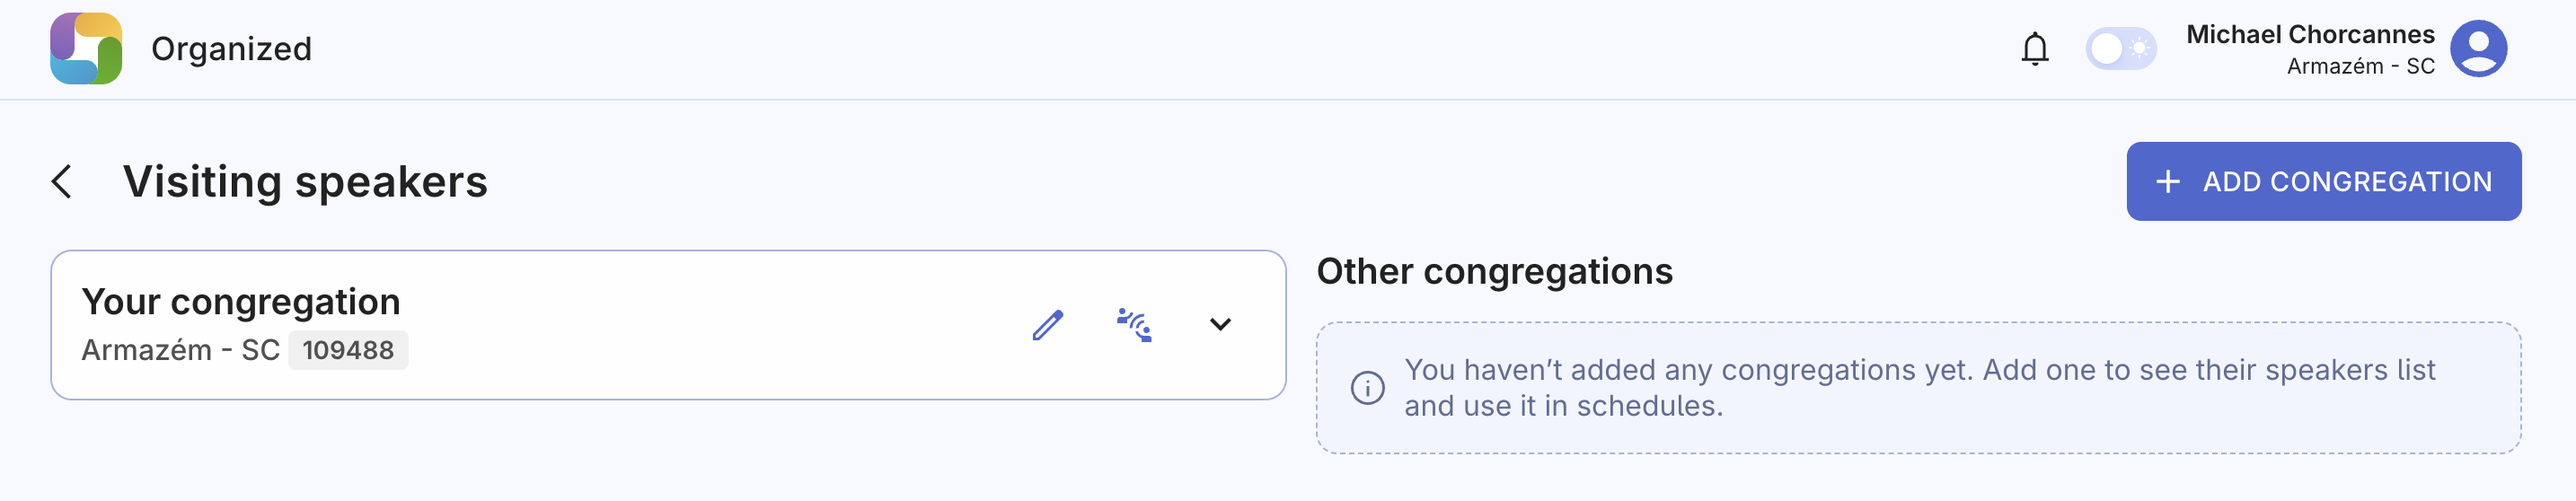
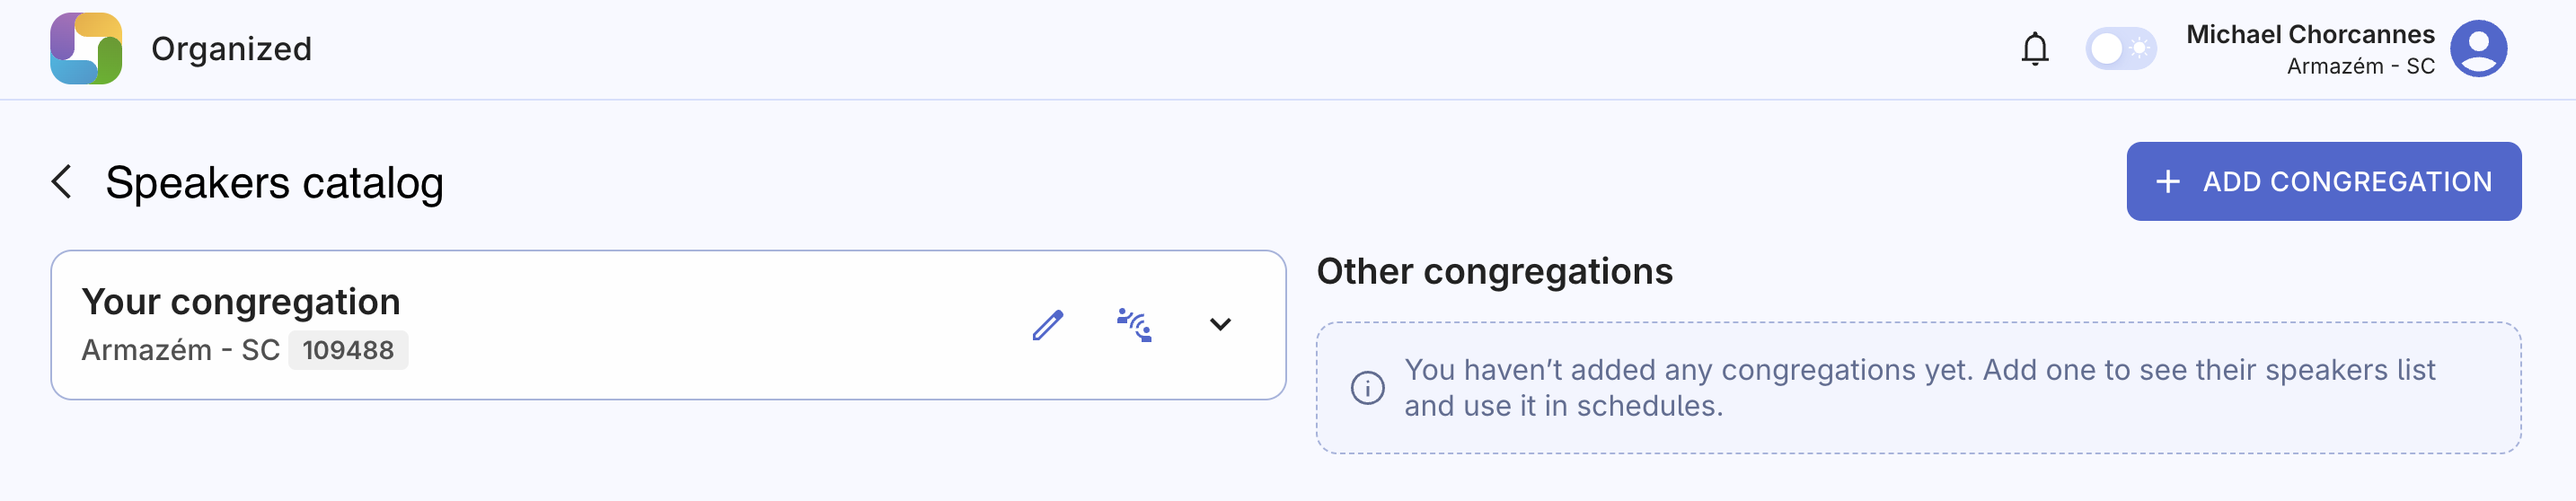
Weekend meetings scheduling (#362)

Changed region(s): [[0.031, 0.3351, 0.1862, 0.3961]]

diff --git a/organized/docusaurus.config.ts b/organized/docusaurus.config.ts
@@ -3,7 +3,7 @@ import type { Config } from '@docusaurus/types';
 import type * as Preset from '@docusaurus/preset-classic';
 
 const config: Config = {
-  title: 'Organized | How to use guide',
+  title: 'Organized | User guide',
   favicon: 'img/favicon.ico',
 
   // Set the production url of your site here
@@ -58,9 +58,9 @@ const config: Config = {
     // Replace with your project's social card
     image: 'img/organized-og-image.jpg',
     navbar: {
-      title: 'Organized | How to use guide',
+      title: 'Organized | User guide',
       logo: {
-        alt: 'Organized How to use guide',
+        alt: 'Organized User guide',
         src: 'img/logo.svg',
       },
       items: [

diff --git a/organized/docs/how-to-use/meetings/weekend-meeting.md b/organized/docs/how-to-use/meetings/weekend-meeting.md
@@ -3,3 +3,85 @@ sidebar_position: 4
 ---
 
 # Weekend meeting scheduling
+
+Creating weekend meeting schedules in the Organized app is as simple as a few clicks! Whether you're scheduling only public talks, or whole weekend meetings, this guide will help you do it efficiently and accurately. Let's see what features Organized provides! 
+
+## Page structure
+
+The weekend meeting scheduling page is designed with simplicity in mind, while also offering powerful features to make scheduling easier. Here’s how the page is structured:
+
+- **Meeting weeks** selector. This section lets you quickly navigate between months and weeks, allowing you to easily view the scheduling progress for each particular week. Also, there’s a **Delete multiple assignments** button that lets you clear several assignments at once. 
+- **Scheduling** area. On another content card, you'll see the  area with all the fields that are ready for scheduling.
+- **Quick settings**. You’ll find these at the top of the page for easy access. These settings are shortcuts to options from the [Congregation settings](../congregation/congregation-settings) page but only affect the weekend meeting scheduling. Remember, changes here will impact the whole congregation, so use these shortcuts to adjust settings related specifically to weekend meetings.
+
+![Quick settings buttons](./img/wm-quick-settings.png)
+*Quick settings button*
+
+## Meeting scheduling
+
+### Prepare: Import meeting mterials from the meeting workbook
+
+On the home page dashboard, click the '[Import from jw.org](../meeting-materials/import-jw-org)' button *(or alternatively use the [import from .epub file](../meeting-materials/import-epub) button to upload an .epub file from your device)* to automatically import the entire meeting program from the meeting workbook. This includes weekly Bible reading text, songs, meeting part titles, durations, source materials, and everything else you need to start scheduling. Thanks to this automatic import, you won't need to manually calculate durations or perform repetitive copy-paste actions to get all the program part titles right.
+
+:::tip[Import from jw.org]
+Although the import from jw.org is performed automatically every few weeks to ensure you always have the newest meeting materials ready for scheduling, **this automatic import doesn't happen instantly after each small update on jw.org**. If you want to be 100% sure you have the latest version of the schedule, click the 'Import from jw.org' action button on the home page dashboard each time before creating a new schedule. This takes only a few extra seconds but removes any uncertainty.
+:::
+
+### Autofill feature
+
+We highly recommend using the Autofill feature to achieve the most balanced scheduling and save your time. The intelligent algorithm considers previous assignments and each person's qualifications, as well as availability, making the scheduling process faster and more efficient. Autofill is easy to use and highly reliable—give it a try and see for yourself!
+
+### Manual scheduling
+
+If you prefer to schedule manually, Organized still provides valuable tools such as assignment history, suggestions, and conflicting assignment warnings. Here’s how to do it:
+
+1. **Select a week type:** Choose the appropriate week type from the list, such as a normal week or a special event.
+2. **Start scheduling:** Begin by scheduling the opening song, chairman, and prayer (if needed). The following instructions will explain some more details and useful tips.
+
+### Public talk
+
+When scheduling the public talk, you have three options to start with:
+
+![Select speaker type or JW Stream video recording](./img/speaker-type.png)
+
+- **Local speaker:** Select a speaker from your own congregation.
+- **Visiting speaker:** Choose a speaker from another congregation. This can be done using the shared catalog of speakers or by manually entering the details.
+- **JW Stream recording:** Select this option if you plan to use a recorded talk video.
+
+Use the [Speakers catalog](../persons/visiting-speakers) button inside the public talk field to access a list of all available speakers and talks. This feature makes it easy to select and schedule speakers with just one click. If you take care of this in advance, you can also get a list of songs that the speaker has chosen for the public talk. 
+
+![Local and visiting speakers list in the Organized app](./img/wm-speakers-catalog-button.png)
+
+:::warning
+Always arrange visiting speakers directly with their public talk coordinator before adding them to the schedule. Even if you have access to the shared visiting speakers list, direct prior communication is required to  confirm dates, titles, and speakers.
+:::
+
+### Watchtower study
+
+After scheduling the public talk, fill out the remaining meeting parts:
+
+- **Watchtower study:** The main conductor is automatically pre-filled unless unavailable. If you need to assign another conductor, select one from the dropdown menu. Only brothers with the Watchtower study conductor qualification will appear in the list. [Edit person](./persons#edit) to update qualifications if needed.
+- **Reader and concluding prayer:** Assign the Watchtower study reader and, if the speaker is unavailable, assign another brother to give the concluding prayer.
+
+### Outgoing talk
+
+You can also include outgoing talks in the schedule — these are talks given by your congregation's speakers at other congregations. To do this, click the 'Add outgoing talk' button under the main meeting scheduling card and enter the details, such as the title, songs, speaker's name, and host congregation. Scheduling these talks in the Organized app helps keep everything in one place, making sure speakers are well-prepared. It also helps with communication between congregations since outgoing talks are synced if they're both using Organized, ensuring speakers know about their assignments ahead of time.
+
+![Congregation and speaker details for outgoing public talks of Jehovah's Witnesses](./img/wm-outgoing-talk-details.png)
+
+### Clearing assignments
+
+- **Delete outgoing talk:**C lick the delete bin icon in the top right corner of the outgoing talk card. Confirm the deletion, and the talk will be removed from the schedule.
+- **Clear all assignments:** Use the **Clear all** button to remove all assignments for the entire week at once, saving time compared to manual deletion.
+
+## Publishing and exporting
+
+Once you’ve finished scheduling, it’s crucial to **publish** the schedules so everyone in your congregation can see their assignments. If you don't publish, the new schedules will remain invisible to others in the app. Remember, creating schedules is just the first step—you also need to publish them as soon as you're done.
+
+Click the 'Publish' button and choose the month you want to make available. Published months will have an indicator icon, so you can easily see which months still need to be published based on your recent work. Make sure not to publish incomplete schedules. After publishing, the new schedule will be visible to everyone in the congregation within a few minutes.
+
+After publishing, you can also **export** the schedules as PDF files for printing or sharing. Click the 'Export' button, select the date range you want to export, and confirm the export. The PDF file will be downloaded to your device within seconds. The export feature even works offline, no internet connection is required! 👍
+
+## Great work: Your scheduling is complete!
+
+By following these steps, you’ve ensured that your weekend meetings are well-organized, with all participants informed and prepared. As you become more familiar with the Organized app, you'll find that scheduling becomes faster and more intuitive, making your planning process not just efficient, but almost effortless!

diff --git a/organized/docs/how-to-use/meetings/midweek-meeting.md b/organized/docs/how-to-use/meetings/midweek-meeting.md
@@ -22,11 +22,11 @@ Now that the structure is clear, let's move on to the scheduling steps!
 
 ## Step 1: Prepare
 
-### Check Person Assignment Qualifications
+### Check person assignment qualifications
 
 Before starting your first scheduling session, ensure that all congregation members have the correct set of [assignment qualifications on their Person page](../persons/add-person#assignments). This page allows you to flexibly specify available assignments for each meeting part for every individual in the congregation. Double-check that everyone in your persons list has the right assignments set up. This way only the qualified persons will be suggested and selected for specific meeting parts with specific roles (e.g. Student or Assistant, Bible study conductor or Reader, etc.).
 
-### Import Meeting Materials from the Workbook
+### Import meeting materials from the workbook
 
 On the home page dashboard, click the '[Import from jw.org](../meeting-materials/import-jw-org)' button *(or alternatively use the [import from .epub file](../meeting-materials/import-epub) button to upload an .epub file from your device)* to automatically import the entire meeting program from the meeting workbook. This includes weekly Bible reading text, songs, meeting part titles, durations, source materials, and everything else you need to start scheduling. Thanks to this automatic import, you won't need to manually calculate durations or perform repetitive copy-paste actions to get all the program part titles right.
 
@@ -34,18 +34,18 @@ On the home page dashboard, click the '[Import from jw.org](../meeting-materials
 Although the import from jw.org is performed automatically every few weeks to ensure you always have the newest meeting materials ready for scheduling, **this automatic import doesn't happen instantly after each small update on jw.org**. If you want to be 100% sure you have the latest version of the schedule, click the 'Import from jw.org' action button on the home page dashboard each time before creating a new schedule. This takes only a few extra seconds but removes any uncertainty.
 :::
 
-## Step 2: Start Scheduling
+## Step 2: Start scheduling
 
 Now that you have all the meeting materials from the workbook imported and ready for scheduling, let's proceed with choosing a specific week, selecting its type, and then assigning all the parts either manually or automatically. We'll also share some additional 'professional' tips at the end of this step.
 
-### Select Week
+### Select week
 
 Choose a week from the 'Meeting weeks' list. It contains all 12 months for each year, and by expanding any of them, you can access a list of weeks for each month. From here, it's easy to track scheduling progress by viewing the progress bar and the number of assignments scheduled compared to the total assignments count for that particular week.
 
 ![Select a week from weeks list in Organized app](./img/meeting-weeks-.gif)
 
 
-### Select Week Type
+### Select week type
 
 During most of the year, the week type is simply 'Normal week'. However, for special weeks and events, there are corresponding presets to help organize schedules more effectively:
 
@@ -59,7 +59,7 @@ During most of the year, the week type is simply 'Normal week'. However, for spe
 
 **Tip:** When a week has no meeting, instead of leaving all fields empty and moving on to the next one, use one of these presets. Selecting one will add extra indicators to the schedules both in the app and on the print, notifying publishers in your congregation. You can even optionally leave a message to be displayed on the schedules for dates when there's no meeting, specifying context (such as assembly/convention name, date, and place) which will be beneficial for brothers and sisters.
 
-### Assign Automatically with Autofill Feature
+### Assign automatically with Autofill feature
 
 In Organized, the Autofill button allows you to fill out all desired schedules in just a couple of seconds! An intelligent algorithm behind this feature takes into account each publisher's last assignment, its date, hall given in, and previous partner – everything for improved and balanced scheduling.
 

diff --git a/organized/docs/how-to-use/persons/visiting-speakers.md b/organized/docs/how-to-use/persons/visiting-speakers.md
@@ -2,17 +2,17 @@
 sidebar_position: 5
 ---
 
-# Visiting speakers
+# Speakers catalog
 
-The Visiting Speakers feature is an invaluable tool if you serve as public talk coordinator. It promotes collaboration, offers a greater variety of speakers, and helps distribute the workload among your local speakers. This guide will walk you through how to use this feature effectively.
+The Speakers catalog feature is an invaluable tool if you serve as public talk coordinator. It promotes collaboration, offers a greater variety of speakers, and helps distribute the workload among your local speakers. This guide will walk you through how to use this feature effectively.
 
 The page is divided into to sections: Your congregation and Other congregations. Let's see how to set up everything and make the best use of it.
 
-![Visiting speakers page structure in Organized app](./img/visiting-stock.png)
+![Speakers catalog page structure in Organized app](./img/visiting-stock.png)
 
 ## Your congregation
 
-This section is where you’ll find your outgoing speakers list, their scheduled talks, and some additional useful settings. You can easily expand or collapse this card based on what you need to focus on.
+This section is where you’ll find your local and outgoing speakers list, their scheduled talks, and some additional useful settings. You can easily expand or collapse this card based on what you need to focus on. Why to add local speakers? By entering you local speakers, their preferred talks and pre-selected songs, you make it way easier to schedule future weekend talks. 
 
 ### Congregation name and number
 
@@ -28,13 +28,13 @@ This feature gives you **full control** over sharing your outgoing speakers list
 
 ![Setup your outgoing speakers list in Organized](./img/my-congregation-setup.png)
 
-### Your outgoing speakers list
+### Your local and outgoing speakers list
 
 If your congregation has approved outgoing speakers and you want to improve collaboration on public talk scheduling with other local congregations, make sure to fill out your outgoing speakers list in Organized. Even if you don’t plan to collaborate directly through the app, keeping this list up-to-date helps you quickly access important information and manage it quickly and effectively as a public talk coordinator.
 
 By turning on the congregation discoverability option, you can further improve digital collaboration with other congregations that are already using Organized.
 
-Here’s how to create and update your congregation's outgoing speakers list to keep the information accurate and useful.
+Here’s how to create and update your congregation's both outgoing and local speakers list to keep the information accurate and useful.
 
 #### Add outgoing speakers
 
